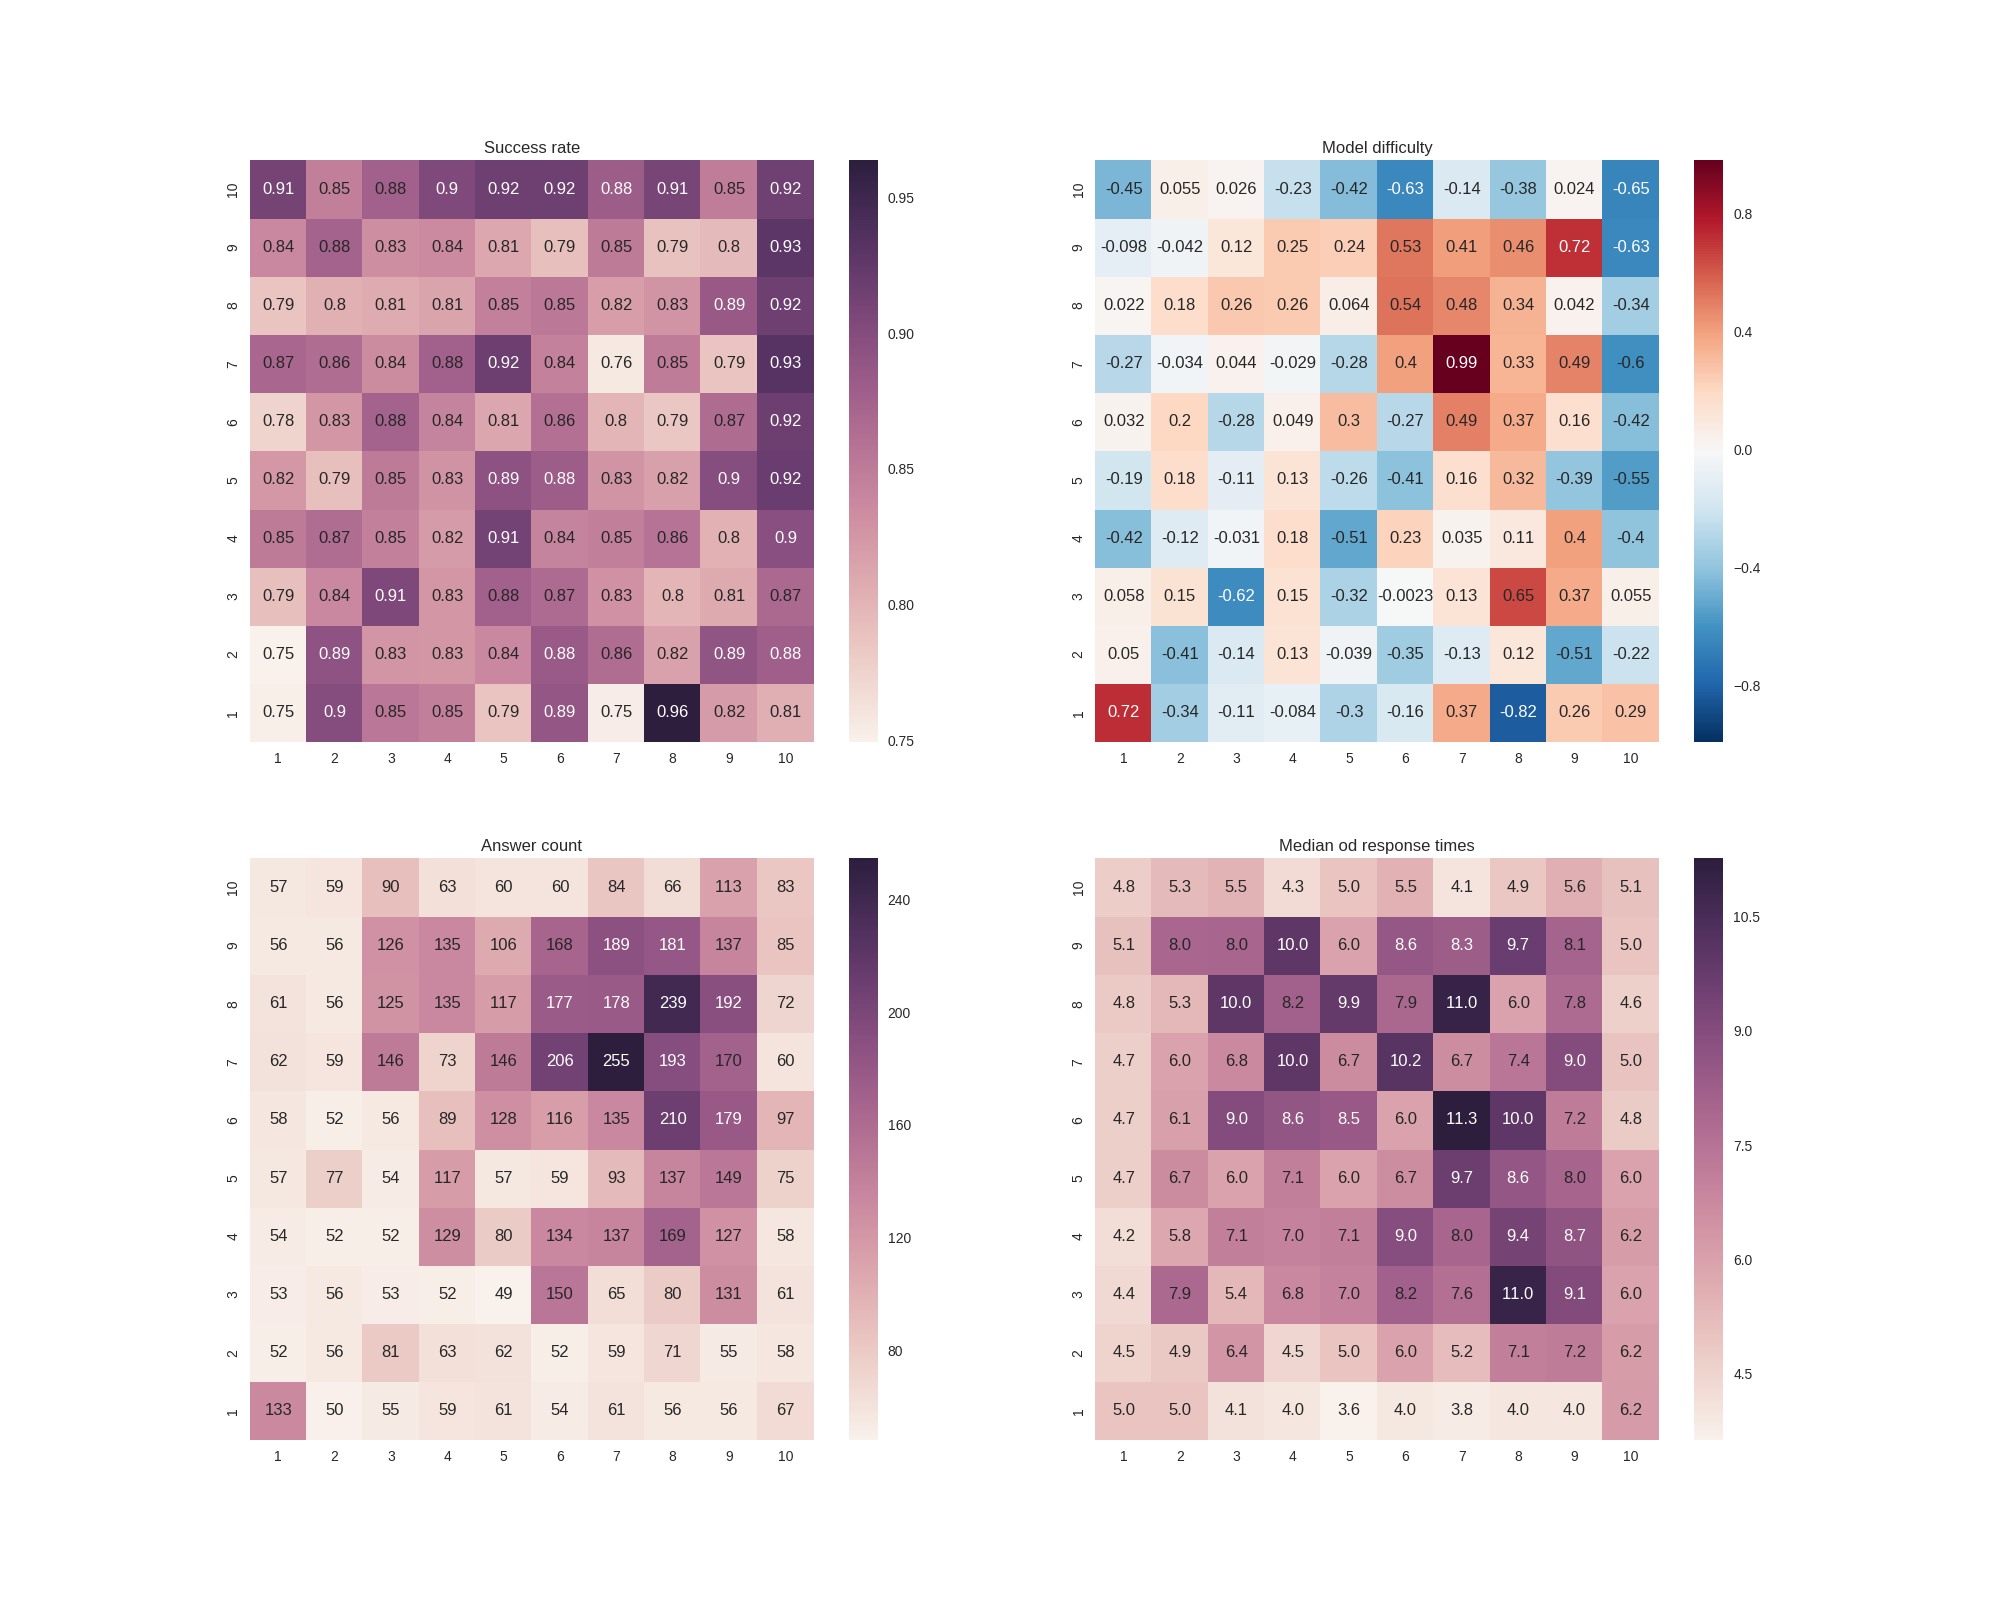
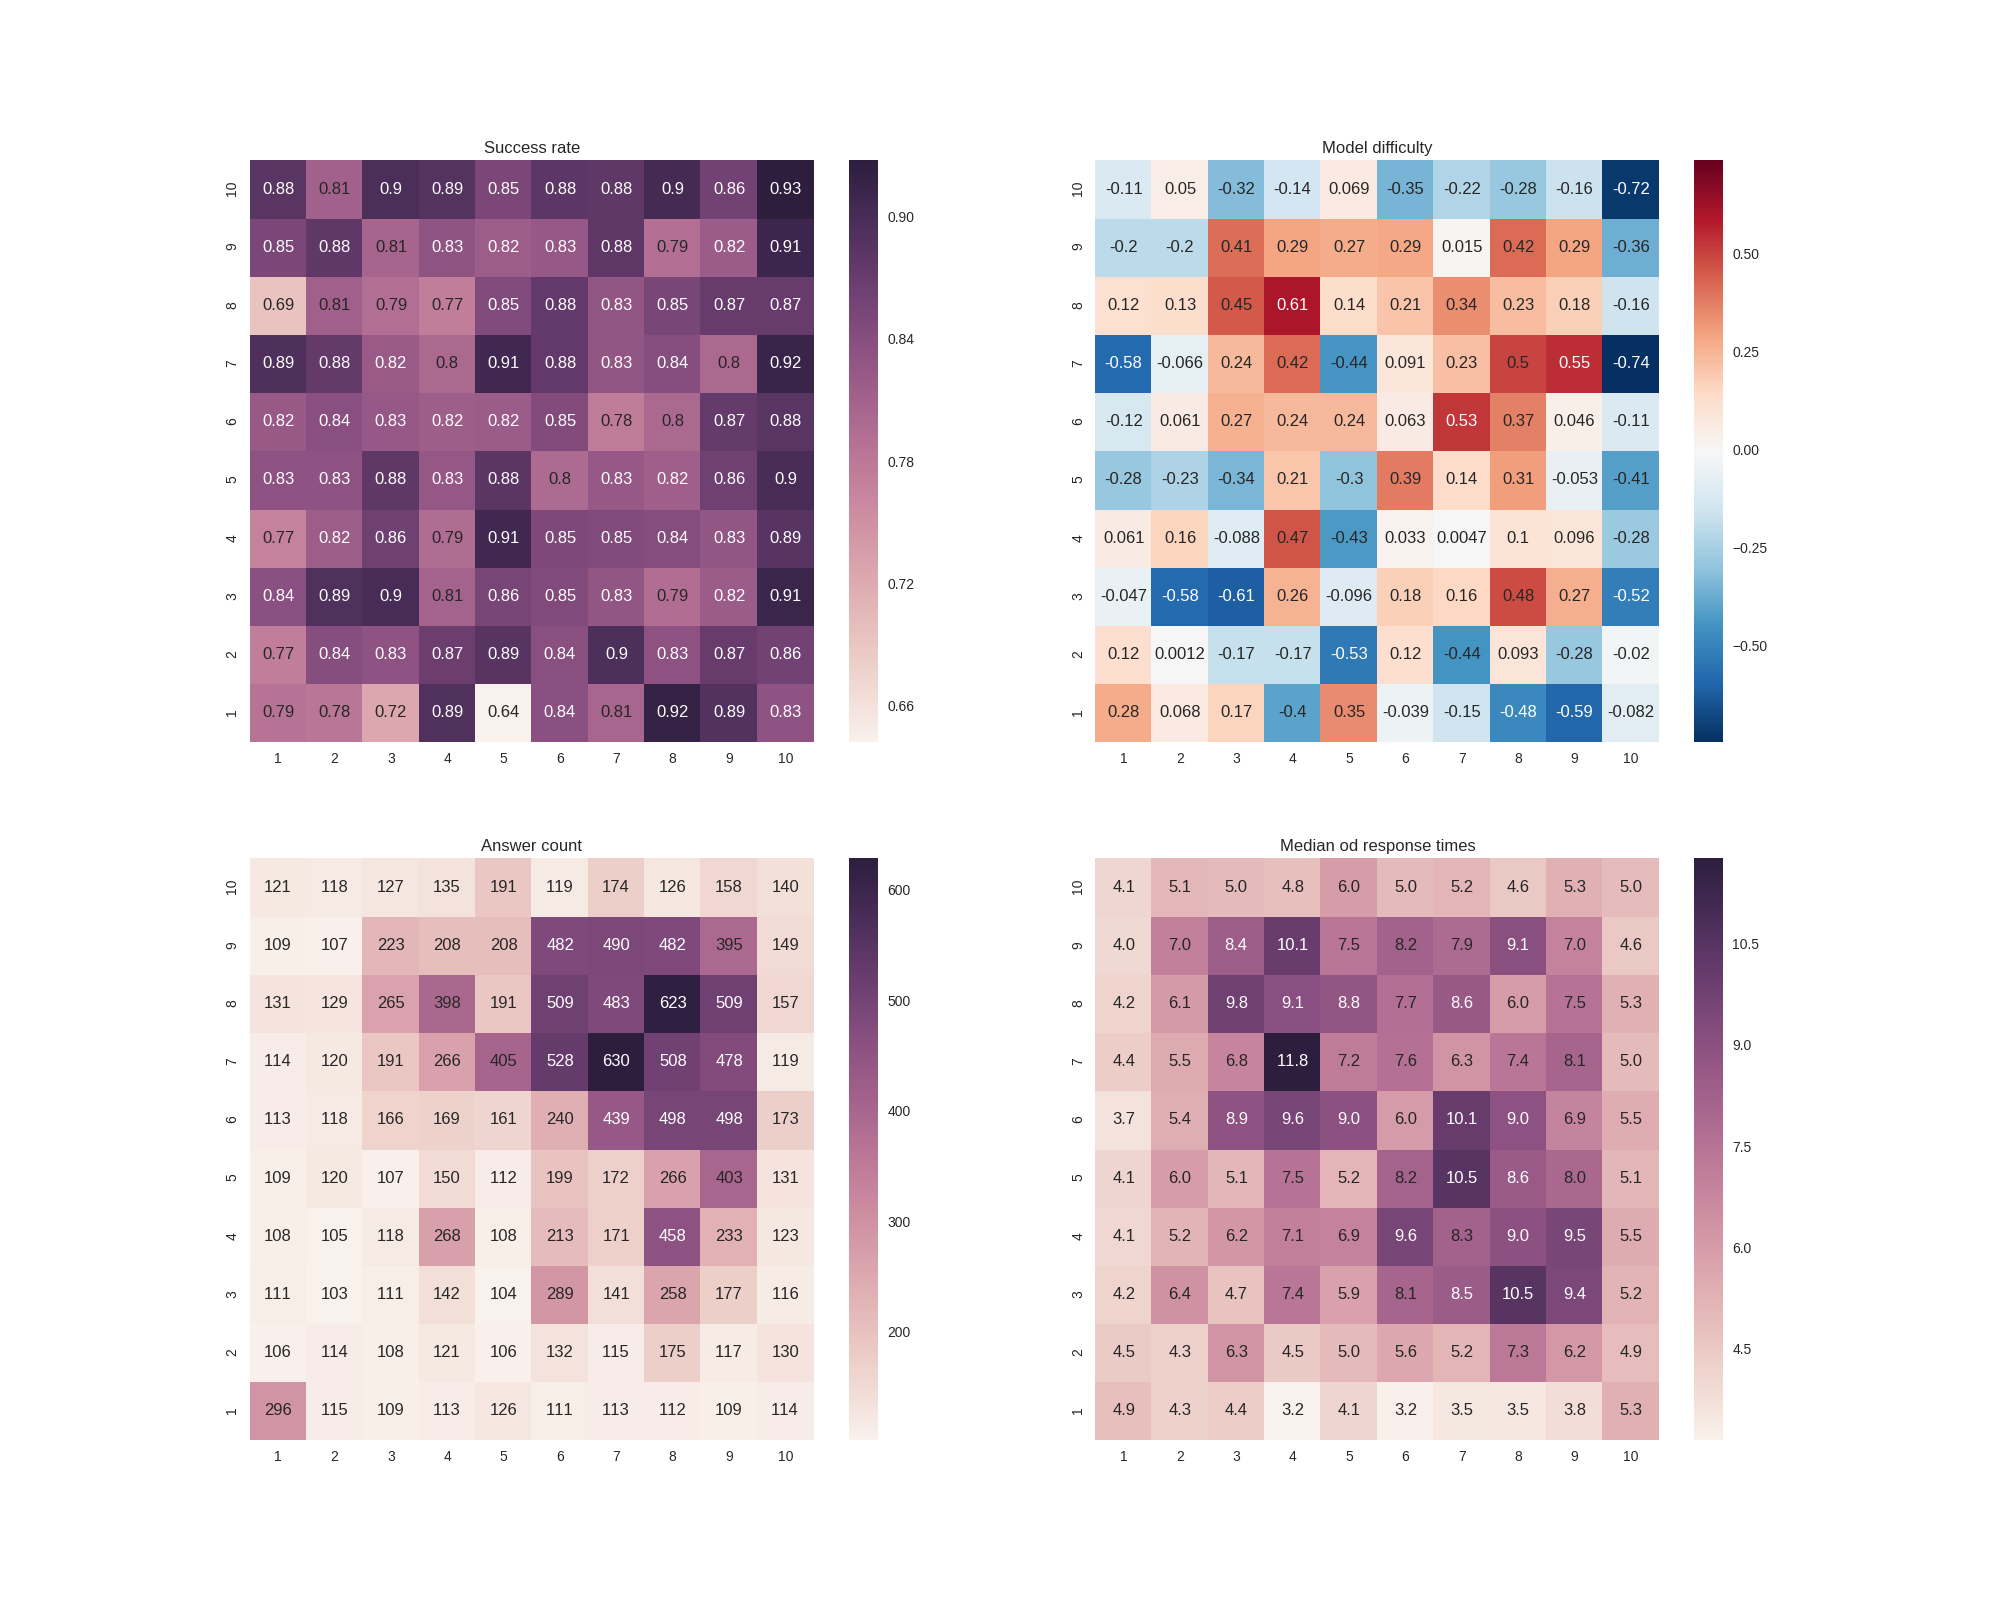
experiments with new data

diff --git a/matmat/experiments_clustering.py b/matmat/experiments_clustering.py
@@ -9,8 +9,9 @@ import matplotlib.pylab as plt
 import scipy.cluster.hierarchy as hr
 import scipy.spatial.distance as dst
 
-d = data.Data("../data/matmat/2015-12-16/answers.pd", only_first=True)
-dt = data.Data("../data/matmat/2015-12-16/answers.pd", response_modification=data.TimeLimitResponseModificator([(5, 0.5)]), only_first=True)
+d = data.Data("../data/matmat/2016-06-27/answers.pd", only_first=True, train_size=1)
+# dt = data.Data("../data/matmat/2016-06-27/answers.pd", response_modification=data.TimeLimitResponseModificator([(5, 0.5)]), only_first=True, train_size=1)
+dt = data.Data("../data/matmat/2016-06-27/answers.pd", response_modification=data.LinearDrop(14), only_first=True, train_size=1)
 
 
 def item_clustering(data, skill, cluster_number=3, plot=True):
@@ -106,13 +107,13 @@ def hierarchical_clustering(data, skill,  method='single', metric='euclidean', d
         Z = hr.linkage(corr, method=method, metric=metric)
     else:
         Z = hr.linkage(dst.squareform(1 - corr), method=method)
+    Z[Z < 0] = 0
     if dendrogram:
         plt.title('{}: method: {}, metric: {}, as vectors: {}'.format(skill, method, metric, corr_as_vectors))
         plt.xlabel('items' if not concepts else "concepts")
         plt.ylabel('distance')
         hr.dendrogram(Z, leaf_rotation=90., leaf_font_size=10., labels=labels)
 
-    Z[Z < 0] = 0
     return hr.fcluster(Z, cluster_number, "maxclust")
 
 
@@ -144,7 +145,7 @@ if 0:
             plt.figure(figsize=(25, 15), dpi=150)
             plt.title(skill)
             all_in_one(dat, skill, concepts=True)
-            plt.savefig("results/concepts/all_in_one/{}{}.png".format(skill, " - time" if i else ""))
+            plt.savefig("results/concepts/all_in_one/{}{} d2.png".format(skill, " - time" if i else ""))
 
 if 0:
     skills = ["numbers", "numbers <= 10", "numbers <= 20"]
@@ -154,9 +155,9 @@ if 0:
             plt.figure(figsize=(25, 15), dpi=150)
             plt.title(skill)
             all_in_one(dat, skill, concepts=False)
-            plt.savefig("results/concepts/all_in_one/items - {}{}.png".format(skill, " - time" if i else ""))
+            plt.savefig("results/concepts/all_in_one/items - {}{} d2.png".format(skill, " - time" if i else ""))
 
 # all_in_one(d, "numbers", concepts=False)
 # all_in_one(dt, "numbers", concepts=True)
 # all_in_one(d, "subtraction <= 10", concepts=True)
-# plt.show()
+plt.show()

diff --git a/matmat/multiplication/multiplication_export.py b/matmat/multiplication/multiplication_export.py
@@ -1,23 +1,15 @@
-import json
-import re
-from algorithms.spectralclustering import SpectralClusterer
-from matmat.experiments_clustering import item_clustering, concept_clustering, all_in_one
-from matmat.experiments_difficulties import difficulty_vs_time, get_difficulty
-from models.eloHierarchical import EloHierarchicalModel
+from matmat.experiments_clustering import all_in_one
 from models.eloPriorCurrent import EloPriorCurrentModel
 from utils import utils
-from utils.data import Data, TimeLimitResponseModificator, ExpDrop, LinearDrop
-from utils.data import compute_corr
+from utils.data import Data
 import pandas as pd
 import numpy as np
 import seaborn as sns
 import matplotlib.pylab as plt
-import scipy.cluster.hierarchy as hr
-import scipy.spatial.distance as dst
 
 from utils.evaluator import Evaluator
 
-data = Data("../data/matmat/2016-01-04/answers.pd", train_size=1)
+data = Data("../../data/matmat/2016-06-27/answers.pd", train_size=1)
 data.trim_times()
 answers = data.get_dataframe_all()
 
@@ -39,8 +31,8 @@ items = data.get_items_df()
 items = items[(items["skill_lvl_2"] == 210) & ~items["skill_lvl_3"].isnull()].loc[:, ("question", "answer", "visualization")]
 items = items[items["visualization"] == "free_answer"]
 
-answers[answers["item"].isin(items.index)].to_pickle("../data/matmat/2016-01-04/answers-multiplication.pd")
-data_multiplication = Data("../data/matmat/2016-01-04/answers-multiplication.pd")
+answers[answers["item"].isin(items.index)].to_pickle("../../data/matmat/2016-01-04/answers-multiplication.pd")
+data_multiplication = Data("../../data/matmat/2016-01-04/answers-multiplication.pd")
 model = EloPriorCurrentModel(alpha=1.4, beta=0.1, KC=3, KI=0.5)
 
 items = items.join(pd.Series(answers.groupby("item").size(), name="answer_count"))

diff --git a/matmat/experiments_models.py b/matmat/experiments_models.py
@@ -11,7 +11,7 @@ import matplotlib.pylab as plt
 import seaborn as sns
 import numpy as np
 
-d = data.Data("../data/matmat/2015-11-20/answers.pd", train_size=0.5, only_first=True)
+d = data.Data("../data/matmat/2016-06-27/answers.pd", train_size=0.5, only_first=True)
 # d = data.Data("../data/matmat/2015-11-20/answers.pd", response_modification=data.TimeLimitResponseModificator([(5, 0.5)]))
 # d = data.Data("../data/matmat/2015-11-20/answers.pd", response_modification=data.TimeLimitResponseModificator([(5, 0.66), (10, 0.33)]))
 concepts = d.get_concepts()
@@ -30,13 +30,13 @@ compare_models(d, [
     SkipHandler(EloHierarchicalModel(KC=1, KI=0.75, alpha=0.8, beta=0.02)),
     # EloHierarchicalModel(alpha=0.25, beta=0.02),
     # EloConcepts(),
-], dont=0, force_evaluate=0, force_run=0, runs=20, hue_order=False, answer_filters={
-    # "long (50) student": data.filter_students_with_many_answers(),
-    # "long (30) student": data.filter_students_with_many_answers(number_of_answers=30),
-    # "long (11) student": data.filter_students_with_many_answers(number_of_answers=11),
-    # "response >5s-0.5": data.transform_response_by_time(((5, 0.5),))
+], dont=0, force_evaluate=0, force_run=0, runs=5, hue_order=False, answer_filters={
+    "long (50) student": data.filter_students_with_many_answers(),
+    "long (30) student": data.filter_students_with_many_answers(number_of_answers=30),
+    "long (11) student": data.filter_students_with_many_answers(number_of_answers=11),
+    "response >5s-0.5": data.transform_response_by_time(((5, 0.5),))
 },
-               palette=sns.color_palette()[:2] * 4
+               # palette=sns.color_palette()[:2] * 4
                )
 
 

diff --git a/matmat/experiments_difficulties.py b/matmat/experiments_difficulties.py
@@ -12,11 +12,11 @@ import seaborn as sns
 import numpy as np
 import pandas as pd
 
-d = data.Data("../data/matmat/2015-11-20/answers.pd")
-concepts = d.get_concepts()
+# d = data.Data("../data/matmat/2016-06-27/answers.pd")
+# concepts = d.get_concepts()
 # d_filtered = data.Data("../data/matmat/2015-11-20/answers.pd", filter=(10, 10))
-d2 = data.Data("../data/matmat/2015-11-20/answers.pd", response_modification=data.TimeLimitResponseModificator([(5, 0.5)]))
-d3 = data.Data("../data/matmat/2015-11-20/answers.pd", response_modification=data.LinearDrop(14))
+# d2 = data.Data("../data/matmat/2016-06-27/answers.pd", response_modification=data.TimeLimitResponseModificator([(5, 0.5)]))
+# d3 = data.Data("../data/matmat/2016-06-27/answers.pd", response_modification=data.LinearDrop(14))
 
 def plot_skill_values(data, values):
     colors = ["p", "b", "y", "k", "g", "r"]
@@ -100,7 +100,7 @@ if 0:
     plot_item_values(d, get_difficulty(d, m, normalize=True))
     # plot_skill_values(d, get_mean_skill(d, m))
 
-if 1:
+if 0:
     compare_models(d, d3,
         EloPriorCurrentModel(KC=2, KI=0.5),
         EloPriorCurrentModel(KC=2, KI=0.5),

diff --git a/matmat/descriptive.py b/matmat/descriptive.py
@@ -116,7 +116,7 @@ def pair_grid(data):
         g = g.map_lower(sns.kdeplot, shade=False)
 
 
-data = Data("../data/matmat/2016-04-18/answers.pd")
+data = Data("../data/matmat/2016-06-27/answers.pd")
 # data = Data("../data/slepemapy/2016-ab-target-difficulty/answers.pd")
 data.filter_data(10, 10)
 
